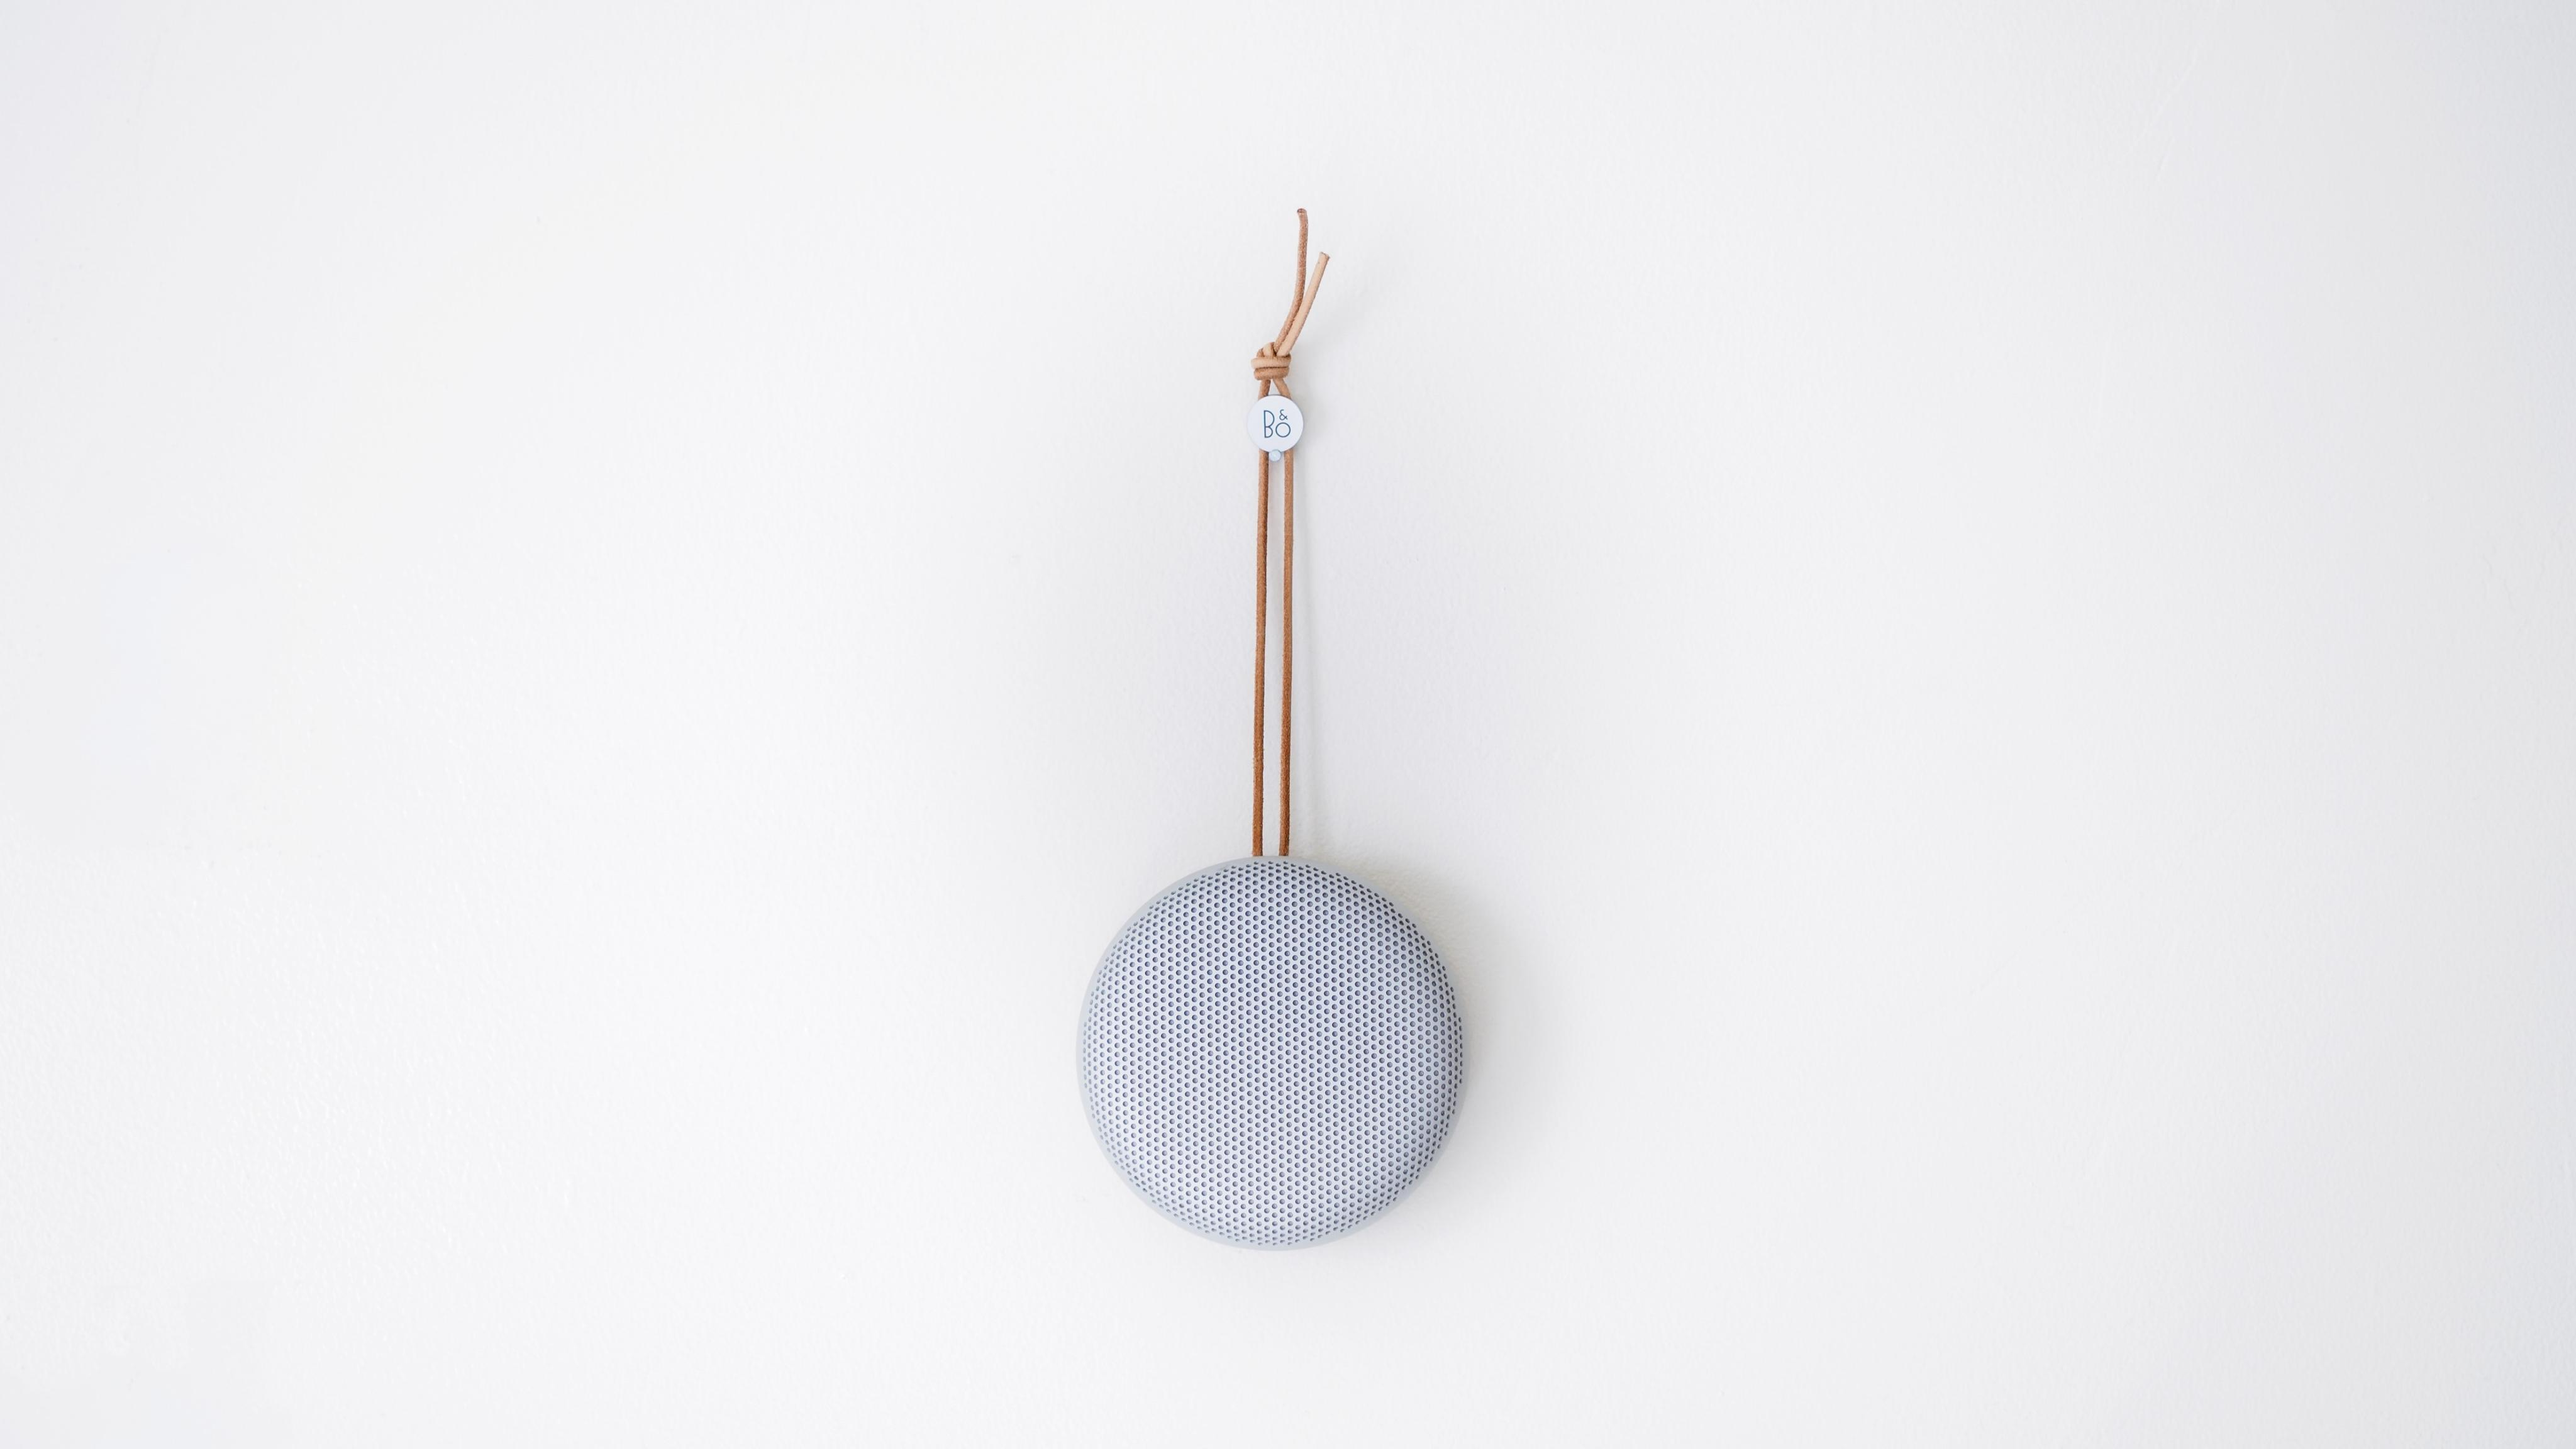
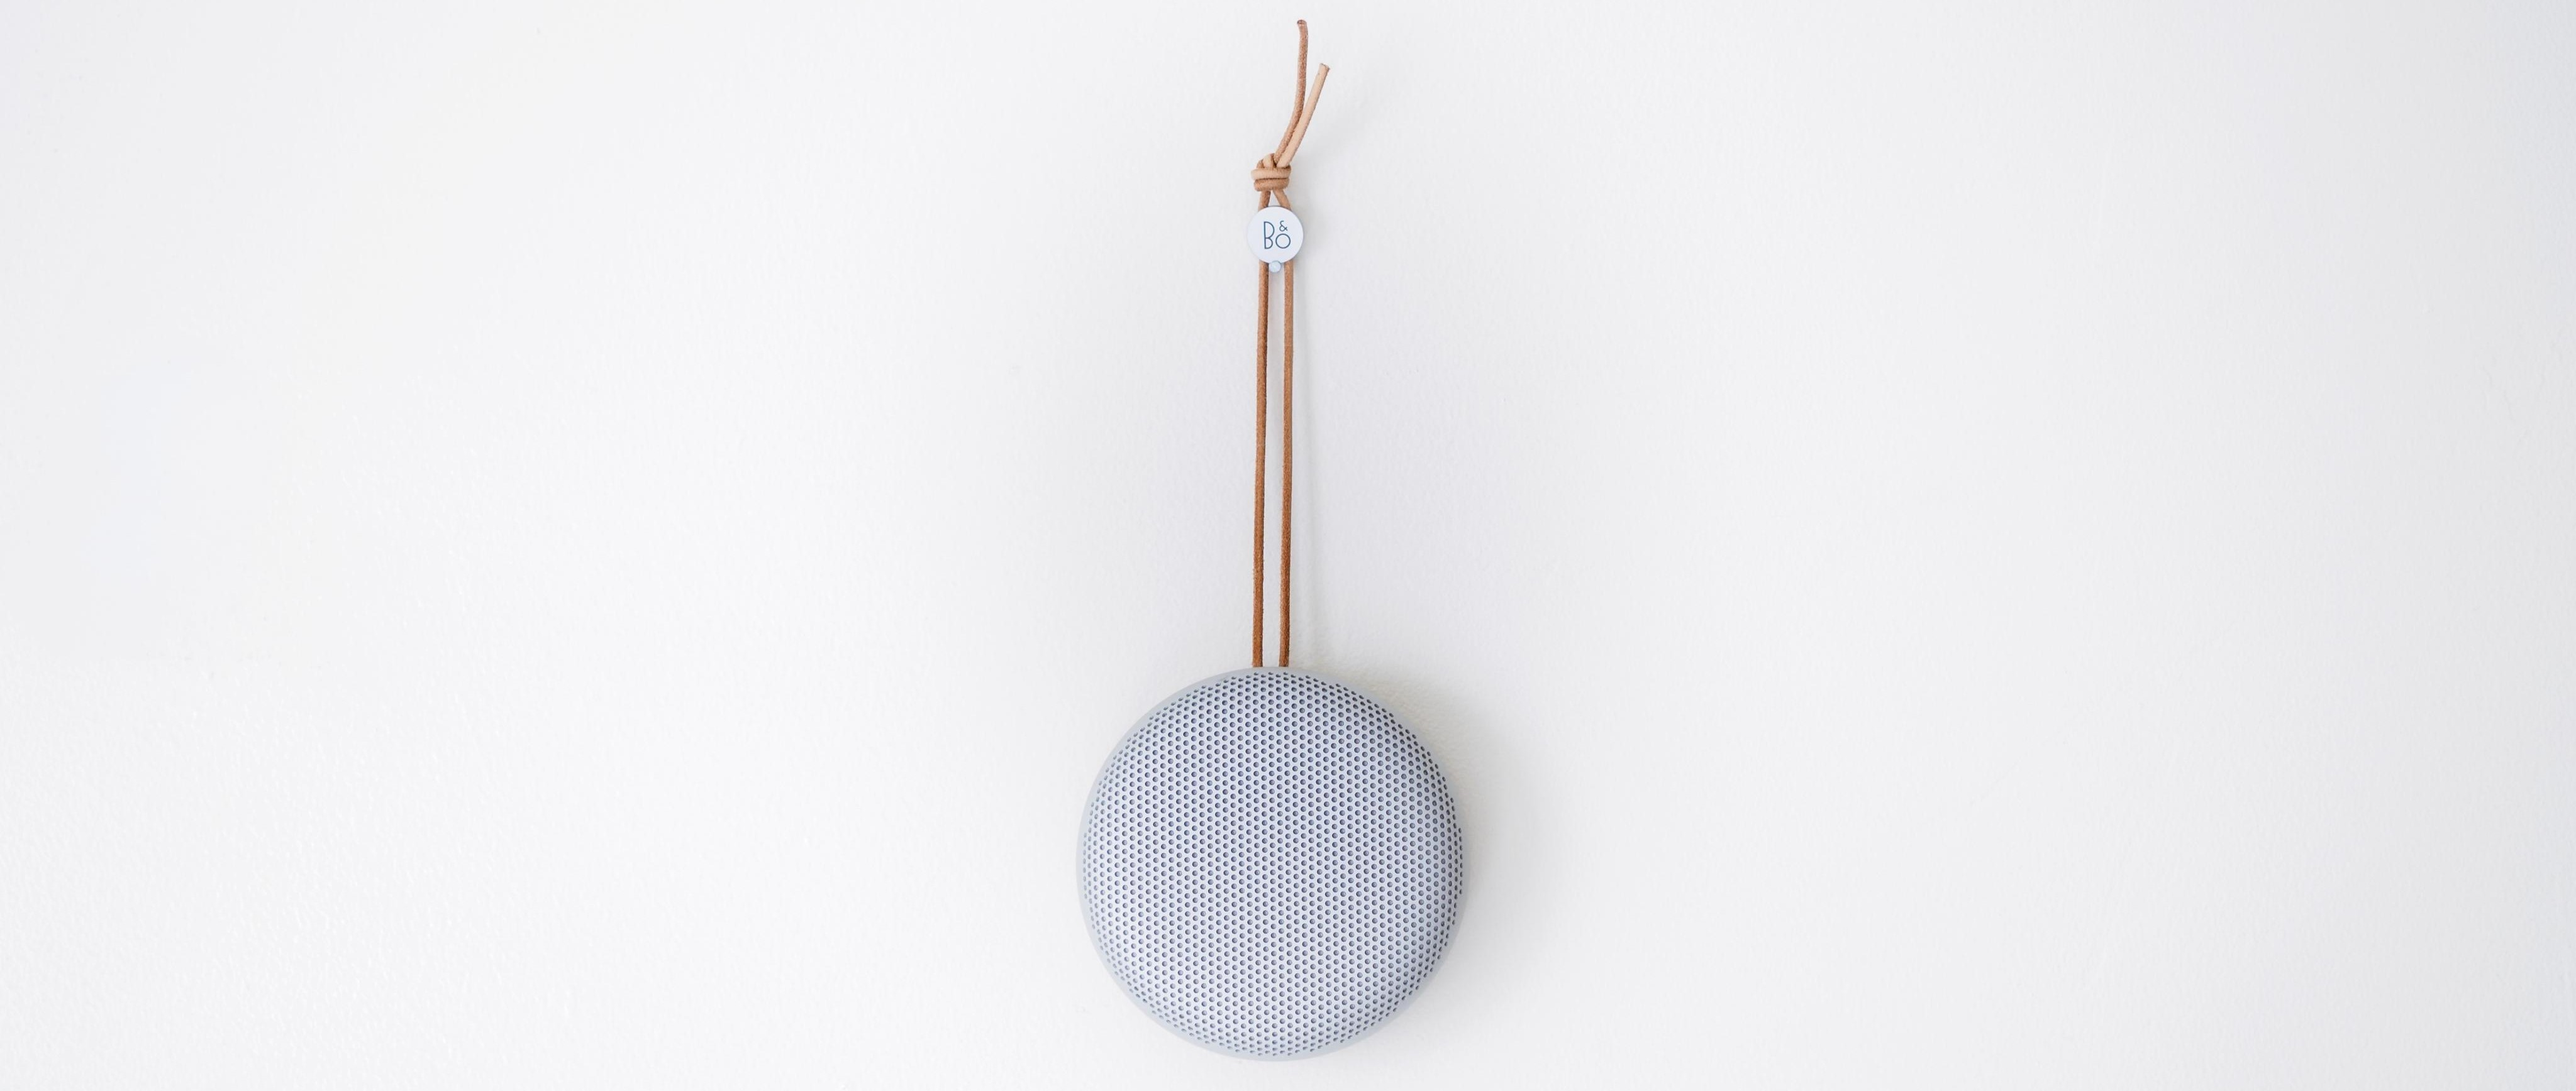
background

Changed region(s): [[0.4062, 0.591, 0.5938, 0.9954], [0.4688, 0.0311, 0.5312, 0.3733]]

diff --git a/src/views/blog/Blog.vue b/src/views/blog/Blog.vue
@@ -1,5 +1,14 @@
 <template>
-  <div>Blog</div>
+
+    <el-container class="outer" id="app">
+      <el-main>
+        <el-row type="flex" justify="center" align="middle">
+          <div style="background-color: blue;width: 100px;height: 100px;color: #fff;">A</div>
+          <div style="background-color: red;width: 100px;height: 100px;color: #fff">B</div>
+        </el-row>
+      </el-main>
+    </el-container>
+
 </template>
 
 <script>
@@ -9,5 +18,15 @@ export default {
 </script>
 
 <style scoped>
-
+.el-main {
+  height: 100%;
+}
+.el-row {
+  height: 100%
+}
+.outer {
+  background-color: #DCDFE6;
+  height: 100%;
+  width: 100%;
+}
 </style>

diff --git a/src/views/home/Home.vue b/src/views/home/Home.vue
@@ -1,6 +1,6 @@
 <template>
   <div class="home">
-    haha
+
   </div>
 </template>
 
@@ -13,10 +13,11 @@ export default {
 
 <style>
   .home{
-    position: relative;
+    background:url("../../assets/img/home/home.jpg");
+    background-size: 100% 100%;
+    height: 100%;
     width: 100%;
-    background-image: url("../../assets/img/home/home.jpg");
-    background-size: cover;
+    position: fixed;
   }
 
 </style>

diff --git a/src/App.vue b/src/App.vue
@@ -18,16 +18,9 @@
 
 
 <style>
-#app {
-  font-family: Avenir, Helvetica, Arial, sans-serif;
-  -webkit-font-smoothing: antialiased;
-  -moz-osx-font-smoothing: grayscale;
-  text-align: center;
-  color: #2c3e50;
-}
 
 #nav {
-  padding: 30px;
+  padding-bottom: 0px;
 }
 
 #nav a {
@@ -38,4 +31,6 @@
 #nav a.router-link-exact-active {
   color: #42b983;
 }
+
+
 </style>

diff --git a/public/index.html b/public/index.html
@@ -6,6 +6,12 @@
     <meta name="viewport" content="width=device-width,initial-scale=1.0">
     <link rel="icon" href="<%= BASE_URL %>favicon.ico">
     <title><%= htmlWebpackPlugin.options.title %></title>
+    <style>
+      body{
+        margin:0;
+        padding:0;
+      }
+    </style>
   </head>
   <body>
     <noscript>

diff --git a/src/components/content/navmenu/NavMenu.vue b/src/components/content/navmenu/NavMenu.vue
@@ -37,6 +37,9 @@ export default {
           break;
       }
     }
+  },
+  created() {
+    this.$router.replace({path: "/home"});
   }
 }
 </script>
@@ -45,6 +48,9 @@ export default {
 img {
   height: 50px;
   width: 50px;
+}
+.no-padding{
+  padding-bottom: 0px;
 }
 .el-menu-item{
   font-size: 20px;
